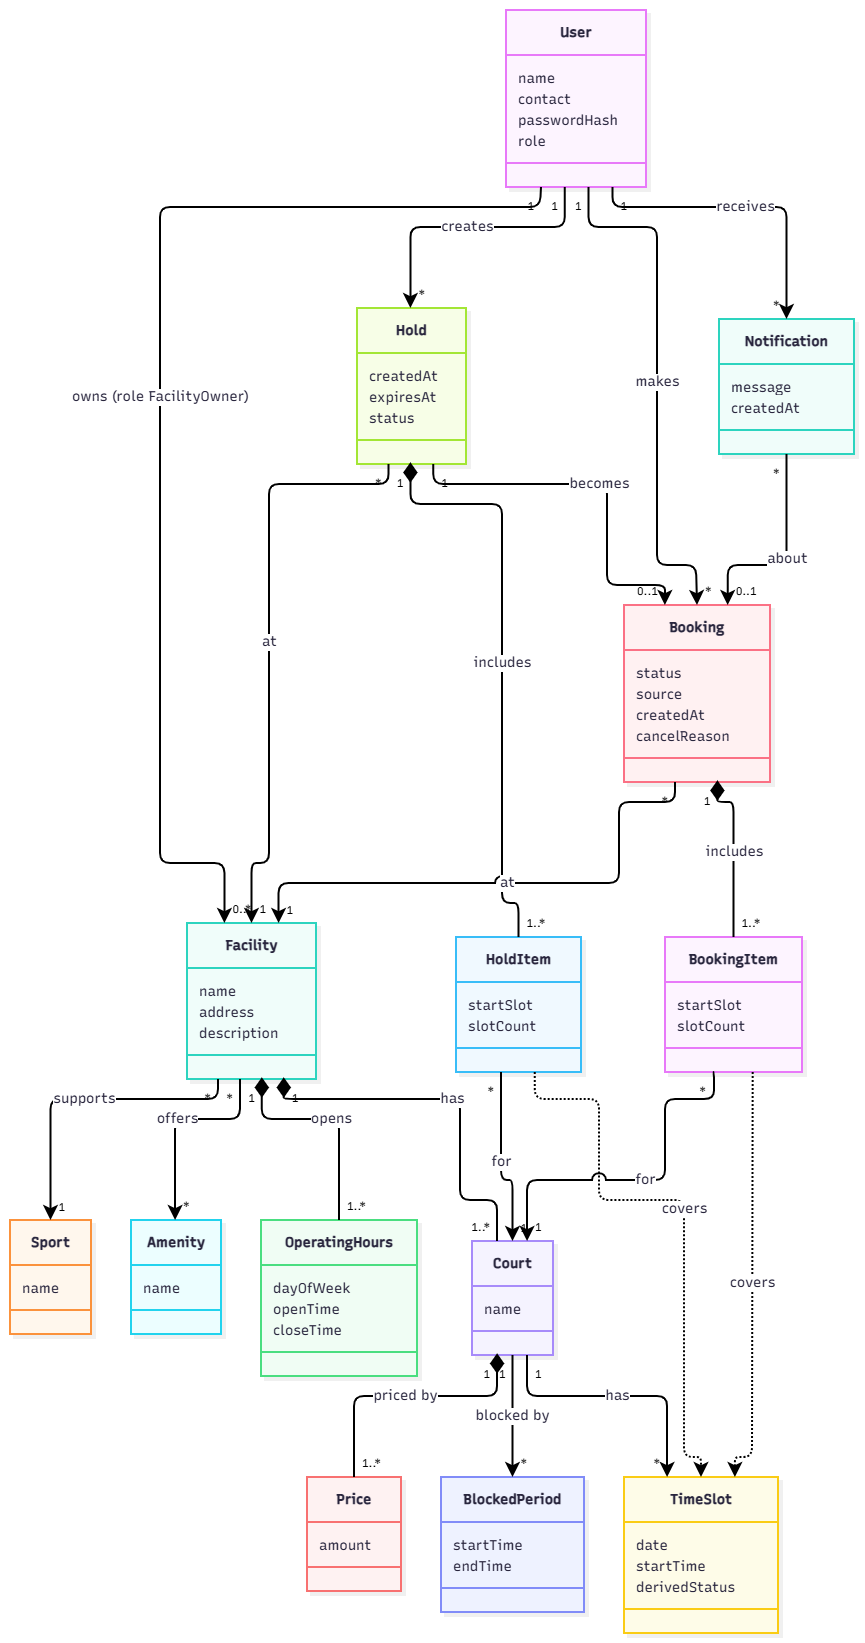
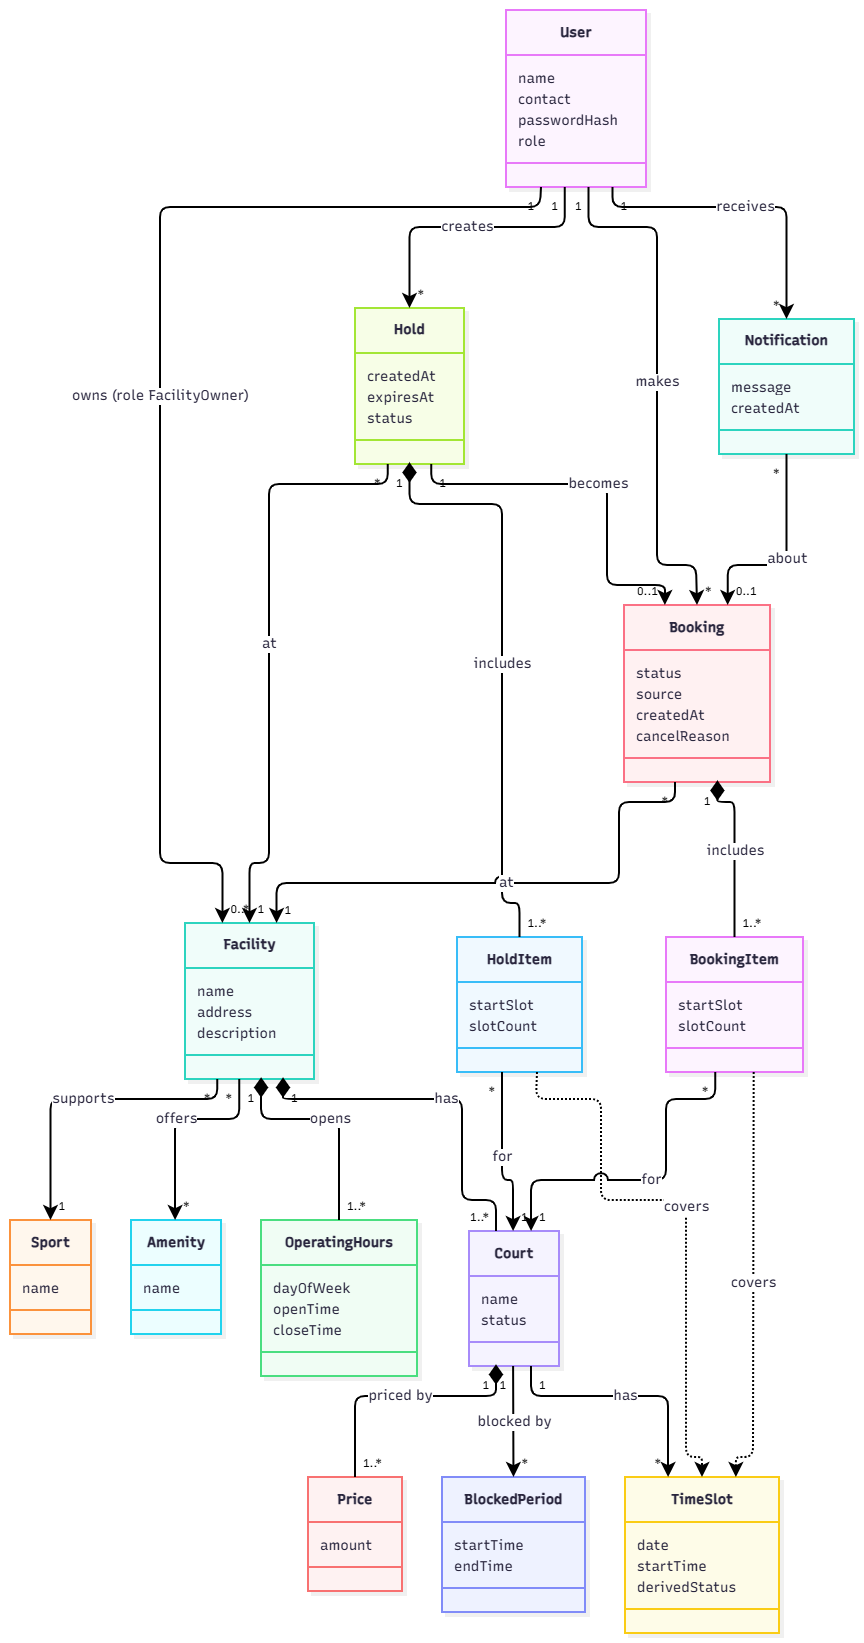
update

diff --git a/docs/design/domain/domain-model.md b/docs/design/domain/domain-model.md
@@ -1,6 +1,6 @@
 # 4.1 Domain Model (3.3.1)
 
-- **Mã đối tượng truy vết:** `DM-01` (Sơ đồ miền tổng thể), `DM-ENT-01`..`DM-ENT-13` (Các khái niệm miền) và `DM-INV-01`..`DM-INV-06` (Ràng buộc miền)
+- **Mã đối tượng truy vết:** `DM-01` (Sơ đồ miền tổng thể), `DM-ENT-01`..`DM-ENT-13` (Các khái niệm miền) và `DM-INV-01`..`DM-INV-08` (Ràng buộc miền)
 - **Issue liên quan:** `#17` — 3.3.1 Xây dựng domain model
 - **Người chịu trách nhiệm chính:** Nguyễn Minh Trí (`@nmt1206`)
 - **Người kiểm tra:** Khôi (`@KhoiVuong2210` — đối chiếu dữ liệu); Vĩ (`@Lysivi2005` — kiểm tra ánh xạ sang lớp).
@@ -10,6 +10,7 @@
 ## 1. Sơ đồ Mô hình Miền (`DM-01`)
 
 Mô hình miền (domain model) thể hiện các khái niệm nghiệp vụ của hệ thống đặt sân và quan hệ giữa chúng. Mô hình dùng thuật ngữ trong bảng thuật ngữ của PA2 và không chứa lớp cài đặt. Tên thuộc tính là thuộc tính khái niệm, chưa có kiểu dữ liệu hay khóa.
+
 
 *Hình 4.1 — Mô hình miền của hệ thống đặt sân thể thao (`DM-01`)*
 
@@ -41,6 +42,7 @@ classDiagram
     }
     class Court {
         name
+        status
     }
     class Price {
         amount
@@ -111,9 +113,9 @@ classDiagram
 
 | Mã đối tượng | Thực thể | Mô tả | Thuộc tính chính | Truy vết PA2 |
 | :--- | :--- | :--- | :--- | :--- |
-| **`DM-ENT-01`** | **User** | Một tài khoản có đúng một vai trò `role` là `Player` hoặc `FacilityOwner` . Khách (guest) chưa có tài khoản nên không phải thực thể. | `name`, `contact` (điện thoại hoặc email), `passwordHash`, `role` | FR-01, FR-24, NFR-05 |
-| **`DM-ENT-02`** | **Facility** | Một cơ sở thuộc về một chủ sân (`FacilityOwner`), mỗi chủ sân có `0..*` cơ sở. Chuỗi nhiều chi nhánh thì mỗi chi nhánh là một `Facility` độc lập. Hỗ trợ một môn thể thao . | `name`, `address`, `description` | FR-03, FR-04, FR-17, BR-10 |
-| **`DM-ENT-03`** | **Court** | Một sân con có tên hoặc số hiệu được định danh riêng trong cơ sở. | `name` | FR-06, FR-17 |
+| **`DM-ENT-01`** | **User** | Một tài khoản có đúng một vai trò `role` là `Player` hoặc `FacilityOwner`. Khách (guest) chưa có tài khoản nên không phải thực thể. | `name`, `contact` (điện thoại hoặc email), `passwordHash`, `role` | FR-01, FR-24, NFR-05 |
+| **`DM-ENT-02`** | **Facility** | Một cơ sở thuộc về một chủ sân (`FacilityOwner`), mỗi chủ sân có `0..*` cơ sở. Chuỗi nhiều chi nhánh thì mỗi chi nhánh là một `Facility` độc lập. Hỗ trợ một môn thể thao. | `name`, `address`, `description` | FR-03, FR-04, FR-17, BR-10 |
+| **`DM-ENT-03`** | **Court** | Một sân con có tên hoặc số hiệu được định danh riêng trong cơ sở. `status` cho biết sân đang hoạt động hay đã bị chủ sân xóa (UC-12); sân đã xóa không còn chọn được và không còn slot khả dụng. Cách lưu (xóa mềm hay cách khác) do Khôi quyết ở 3.1.2. | `name`, `status` (đang hoạt động / đã xóa) | FR-06, FR-17, FR-29 |
 | **`DM-ENT-04`** | **Sport, Amenity** | Môn thể thao cơ sở hỗ trợ (đúng một) và các tiện ích đi kèm (`*`). Dùng cho tìm kiếm và lọc. | `name` | FR-04, FR-05 |
 | **`DM-ENT-05`** | **OperatingHours** | Giờ mở cửa và đóng cửa của cơ sở theo ngày trong tuần . | `dayOfWeek`, `openTime`, `closeTime` | FR-18, FR-29, BR-11 |
 | **`DM-ENT-06`** | **Price** | Giá của một sân. Cấu trúc giá (một mức hay theo khung giờ) chưa chốt . | `amount` | FR-07, FR-19 |
@@ -133,18 +135,20 @@ classDiagram
 | :--- | :--- | :--- |
 | **`DM-INV-01`** | Mọi `HoldItem`/`BookingItem` của một `Hold`/`Booking` thuộc `Court` của đúng `Facility` mà `Hold`/`Booking` đó gắn với. | FR-09, BR-03, AC-14 |
 | **`DM-INV-02`** | Trong một `Hold`/`Booking`, mỗi `Court` có tối đa một item, và item đó phủ một dải slot 30 phút liên tiếp (giờ bắt đầu và số slot có thể khác nhau giữa các sân). | BR-03, AC-13 |
-| **`DM-INV-03`** | Một `TimeSlot` không được đồng thời thuộc hai `Hold` đang hoạt động, một `Hold` và một `Booking` đã xác nhận, hoặc một `BlockedPeriod`. | NFR-02, BR-02, BR-13, FR-22 |
+| **`DM-INV-03`** | Một sân tại một khung giờ (một `TimeSlot`) có **tối đa một `Booking` ở trạng thái `Confirmed`**; khi nhiều yêu cầu cùng tranh một slot thì chỉ một yêu cầu giữ được chỗ. Đây là ràng buộc nghiệp vụ **riêng**, không được thay bằng việc suy ra `derivedStatus = booked`: trạng thái suy ra chỉ phục vụ hiển thị lịch chung. | NFR-02, FR-13, BR-02, AC-18 |
 | **`DM-INV-04`** | `Hold.expiresAt = createdAt + 5 phút` và không đổi sau khi tạo (không gia hạn, tải lại trang không đặt lại). | BR-01, BR-07, FR-25, FR-31 |
 | **`DM-INV-05`** | `Hold` chỉ được tạo cho người đã đăng nhập, sau khi toàn bộ lựa chọn hợp lệ; một phần không hợp lệ thì không có hold nào. | BR-04, BR-05, FR-13, FR-23 |
 | **`DM-INV-06`** | `Booking` chỉ sinh ra từ một `Hold` hợp lệ, ngay ở trạng thái `Confirmed`; không có trạng thái chờ duyệt. | BR-06, FR-11, FR-12 |
+| **`DM-INV-07`** | `HoldItem`/`BookingItem` mới chỉ trỏ tới `Court` đang hoạt động. Khi sân bị xóa, các booking tương lai của sân đó bị hủy toàn bộ theo quy trình chung của chủ sân (24 giờ, chờ hold, cảnh báo, thông báo). | FR-17, FR-29, FR-32, BR-11 |
+| **`DM-INV-08`** | Một `TimeSlot` đang bị chiếm bởi một `Hold` đang hoạt động, một `Booking` đã xác nhận hoặc một `BlockedPeriod` thì không được bị chiếm thêm bởi nguồn thứ hai: không đồng thời thuộc hai `Hold`, một `Hold` và một `Booking`, hoặc một `BlockedPeriod` cùng một `Hold`/`Booking`. | BR-02, BR-13, FR-22, FR-29 |
 
-`derivedStatus` của `TimeSlot` được tính theo thứ tự ưu tiên: **unavailable** nếu nằm ngoài `OperatingHours`, trong một `BlockedPeriod` hoặc sân đã bị xóa; **booked** nếu thuộc `Booking` ở trạng thái `Confirmed`; **held** nếu thuộc `Hold` chưa kết thúc (chưa nhả); còn lại là **available**. Việc lưu sẵn hay tính khi truy vấn là quyết định của Khôi (3.1.2).
+`derivedStatus` của `TimeSlot` được tính theo thứ tự ưu tiên: **unavailable** nếu nằm ngoài `OperatingHours`, trong một `BlockedPeriod` hoặc `Court.status` là đã xóa; **booked** nếu thuộc `Booking` ở trạng thái `Confirmed`; **held** nếu thuộc `Hold` chưa kết thúc (chưa nhả); còn lại là **available**. Việc lưu sẵn hay tính khi truy vấn là quyết định của Khôi (3.1.2). `derivedStatus` chỉ phục vụ hiển thị; quy tắc chống đặt trùng là ràng buộc riêng `DM-INV-03`, không suy ra từ `booked`.
 
 ---
 
 ## 4. Các quyết định mô hình hóa
 
-- **Lịch chung (Shared Schedule):** Lịch chung không được lưu thành một thực thể riêng. Nó là kết quả tổng hợp của `Booking`, `Hold`, `BlockedPeriod` và `OperatingHours` trên từng sân, nhờ đó một slot không thể vừa được đặt vừa bị khóa từ hai nguồn khác nhau (FR-22, BR-13). Vì vậy `TimeSlot.derivedStatus` là giá trị suy ra, không phải thuộc tính cập nhật tay.
+- **Lịch chung (Shared Schedule):** Lịch chung không được lưu thành một thực thể riêng. Nó là kết quả tổng hợp của `Booking`, `Hold`, `BlockedPeriod` và `OperatingHours` trên từng sân, nhờ đó một slot không bị chiếm từ hai nguồn khác nhau (FR-22, BR-13, `DM-INV-08`). Việc này **không thay thế** quy tắc chống đặt trùng `DM-INV-03` (một sân tại một khung giờ có tối đa một booking `Confirmed`). Vì vậy `TimeSlot.derivedStatus` là giá trị suy ra, không phải thuộc tính cập nhật tay.
 - **Cấu trúc booking và hold:** Một `Booking` (và `Hold`) thuộc đúng một cơ sở. `BookingItem` và `HoldItem` có cùng cấu trúc: mỗi item trỏ tới một sân và phủ một dãy slot 30 phút liên tiếp (quan hệ phụ thuộc `covers`, không lưu danh sách slot). Điều này thể hiện luật một đơn đặt chỉ gồm một cơ sở và không cho phép hủy lẻ từng sân (FR-09, FR-28, BR-03, BR-09).
 - **Hold và Booking:** `Hold` chỉ trở thành `Booking` khi xác nhận thành công (FR-11, FR-12), thể hiện bằng quan hệ `Hold → Booking (0..1)`. Vì vậy `Booking` bắt đầu ngay ở trạng thái `Confirmed`, không có trạng thái chờ (`Pending`).
 - **Vai trò người dùng:** Dùng một thuộc tính `role` thay vì kế thừa `Player`/`FacilityOwner`, vì PA2 chỉ phân biệt hai vai trò theo quyền, không có thuộc tính riêng cho từng vai trò .
@@ -166,7 +170,7 @@ classDiagram
 
 ## 6. Thông tin gửi kèm Review (Theo Working Agreement Mục 5.3)
 
-- **Danh sách sản phẩm:** `docs/design/domain/domain-model.md` và ảnh sơ đồ `docs/design/domain/domain-model.png` (Mã đối tượng: `DM-01`, `DM-ENT-01`..`13`, `DM-INV-01`..`06`).
+- **Danh sách sản phẩm:** `docs/design/domain/domain-model.md` và ảnh sơ đồ `docs/design/domain/domain-model.png` (Mã đối tượng: `DM-01`, `DM-ENT-01`..`13`, `DM-INV-01`..`08`).
 - **Kết quả tự kiểm tra:**
   - [x] Không trộn các lớp kỹ thuật (Controller, Service, DTO, bảng nối vật lý) vào Domain Model.
   - [x] Sơ đồ và phần chữ nhất quán: `Hold` và `Booking` đều gắn với `Facility`, đều có item riêng; `Hold` có quan hệ `becomes` tới `Booking`; vai trò chỉ biểu diễn bằng `role`.
@@ -179,5 +183,5 @@ classDiagram
   2. Tách `Booking`/`BookingItem` và `Hold`/`HoldItem` để biểu diễn một đơn nhiều sân với giờ bắt đầu và số slot liên tiếp khác nhau trên từng sân (BR-03), và để giữ cùng cấu trúc khi hold chuyển thành booking.
   3. Một thuộc tính `role` thay cho kế thừa.
 - **Điểm còn mở cần người kiểm tra xác nhận:**
-  - `@KhoiVuong2210`: đối chiếu cách ánh xạ `HoldItem`/`BookingItem` và `derivedStatus` sang bảng vật lý trong ERD (3.1.2); .
-  - `@Lysivi2005`: xác nhận ánh xạ các khái niệm `DM-ENT-01`..`13` sang lớp trong Class Diagram (3.3.2); 
+  - `@KhoiVuong2210`: đối chiếu cách ánh xạ `HoldItem`/`BookingItem` và `derivedStatus` sang bảng vật lý trong ERD (3.1.2), và cách ERD bảo đảm `DM-INV-03` (tối đa một booking `Confirmed` cho một sân tại một khung giờ) và `DM-INV-08`.
+  - `@Lysivi2005`: xác nhận ánh xạ các khái niệm `DM-ENT-01`..`13` sang lớp trong Class Diagram (3.3.2).
